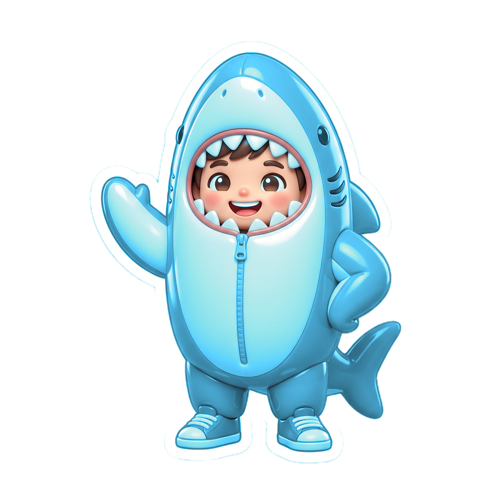
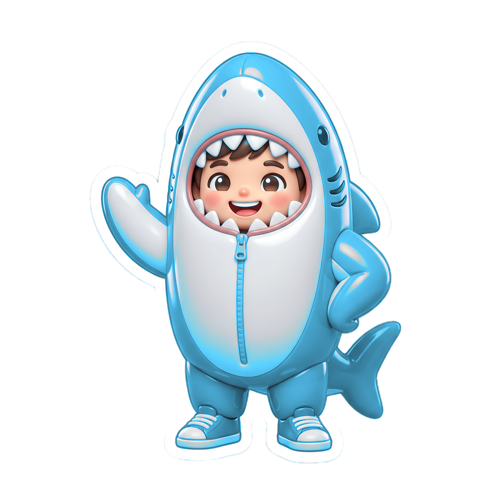
Облік: костюм Супермен, рожева/блакитна акула з білим пузиком
Claude-Session: https://claude.ai/code/session_01UKjUafz19iT4muXrX4QEVg

diff --git a/orenda/oblik.html b/orenda/oblik.html
@@ -16,9 +16,10 @@ h2{font-size:20px;margin:22px 0 10px}
 .head h1{color:var(--dark)}
 .head .mono{color:#3d4a12!important}
 .hband{display:flex;gap:2px;justify-content:space-between;margin:6px -6px -10px}
-.hband img{width:16%;max-width:74px;filter:drop-shadow(0 6px 0 rgba(22,16,14,.18))}
+.hband img{width:14%;min-width:0;max-width:74px;filter:drop-shadow(0 6px 0 rgba(22,16,14,.18))}
 @media(prefers-reduced-motion:no-preference){.hband img{animation:bob 3.4s ease-in-out infinite}
 .hband img:nth-child(2){animation-delay:-.5s}.hband img:nth-child(3){animation-delay:-1s}.hband img:nth-child(4){animation-delay:-1.5s}.hband img:nth-child(5){animation-delay:-2s}.hband img:nth-child(6){animation-delay:-2.5s}
+.hband img:nth-child(7){animation-delay:-3s}
 @keyframes bob{0%,100%{transform:translateY(0) rotate(-3deg)}50%{transform:translateY(-8px) rotate(3deg)}}}
 .top{display:flex;justify-content:space-between;align-items:flex-end;gap:10px;flex-wrap:wrap}
 .top .mono{color:#3d4a12;max-width:100%;text-align:right;font-size:11px}
@@ -112,7 +113,7 @@ h2{font-size:20px;margin:22px 0 10px}
 </style></head><body><div class="wrap">
 
 <div class="head"><div class="top"><h1>Облік</h1><span class="mono" id="sync">локально на цьому пристрої</span></div>
- <div class="hband"><img src="media/st/pavuk.png" alt=""><img src="media/st/rat.png" alt=""><img src="media/st/guard.png" alt=""><img src="media/st/batman.png" alt=""><img src="media/st/shark_pink.png" alt=""><img src="media/st/biomeh.png" alt=""></div></div>
+ <div class="hband"><img src="media/st/pavuk.png" alt=""><img src="media/st/rat.png" alt=""><img src="media/st/guard.png" alt=""><img src="media/st/batman.png" alt=""><img src="media/st/shark_pink.png" alt=""><img src="media/st/biomeh.png" alt=""><img src="media/st/superman.png" alt=""></div></div>
 
 <div class="money" id="money"></div>
 <div class="money" id="bal" style="cursor:pointer" title="Відкрити баланс"></div>
@@ -130,10 +131,10 @@ h2{font-size:20px;margin:22px 0 10px}
 (function(){
 "use strict";
 var API=window.BOOKING_API||"", KEY="";
-var PRICE={"Павук":200,"Бетмен":200,"Охоронець":200,"Біомеханіка":200,"Щур":250,"Акула":250};
+var PRICE={"Павук":200,"Бетмен":200,"Охоронець":200,"Біомеханіка":200,"Супермен":200,"Щур":250,"Акула":250};
 function price(c){return PRICE[c]!=null?PRICE[c]:(String(c).indexOf("Акула")===0?250:200)}
-var ST={"Павук":"pavuk","Бетмен":"batman","Охоронець":"guard","Біомеханіка":"biomeh","Щур":"rat","Акула рожева":"shark_pink","Акула блакитна":"shark_blue","Акула скелет":"shark_skeleton","Акула":"shark_blue"};
-var CLR={"Павук":"var(--pink)","Бетмен":"var(--violet)","Охоронець":"var(--lime)","Біомеханіка":"var(--blue)","Щур":"var(--orange)","Акула рожева":"var(--pink)","Акула скелет":"var(--violet)","Акула":"var(--blue)"};
+var ST={"Павук":"pavuk","Бетмен":"batman","Охоронець":"guard","Біомеханіка":"biomeh","Супермен":"superman","Щур":"rat","Акула рожева":"shark_pink","Акула блакитна":"shark_blue","Акула скелет":"shark_skeleton","Акула":"shark_blue"};
+var CLR={"Павук":"var(--pink)","Бетмен":"var(--violet)","Охоронець":"var(--lime)","Біомеханіка":"var(--blue)","Супермен":"var(--red)","Щур":"var(--orange)","Акула рожева":"var(--pink)","Акула скелет":"var(--violet)","Акула":"var(--blue)"};
 function stKey(name){name=String(name||"");for(var k in ST){if(name.indexOf(k)===0)return ST[k]}return ""}
 function stImg(name,cls){var k=stKey(name);return k?"<img class='"+(cls||"stk")+"' src='media/st/"+k+".png' alt=''>":""}
 function clr(name){name=String(name||"");for(var k in CLR){if(name.indexOf(k)===0)return CLR[k]}return "var(--lime)"}
@@ -348,7 +349,7 @@ function moneyView(){
 }
 
 /* ---------- костюми, кількість і баланс ---------- */
-var STOCK0={"Павук":1,"Бетмен":1,"Охоронець":1,"Біомеханіка":1,"Щур":5,"Акула рожева":2,"Акула скелет":1,"Акула блакитна":1};
+var STOCK0={"Павук":1,"Бетмен":1,"Охоронець":1,"Біомеханіка":1,"Супермен":1,"Щур":5,"Акула рожева":2,"Акула скелет":1,"Акула блакитна":1};
 var COST=Object.keys(STOCK0);
 var bcur=ymd(today()),fk="road",fd=ymd(today());
 function stock(){var r={};COST.forEach(function(c){r[c]=STOCK0[c]});
